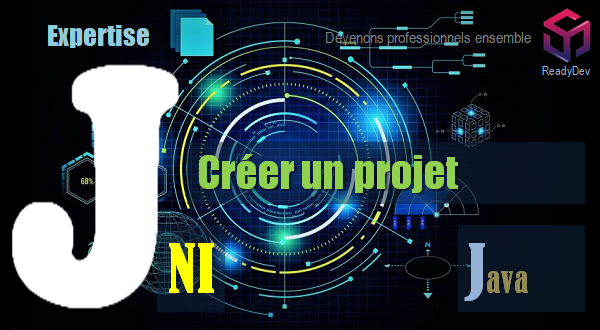
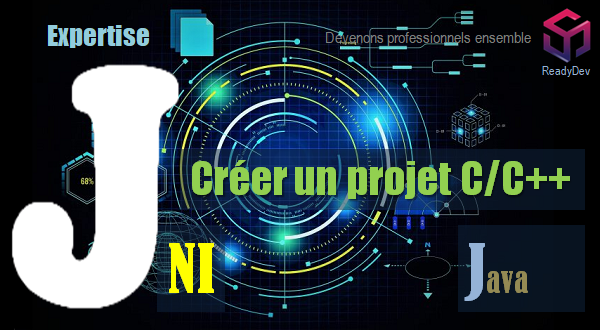
Initial Commit

Changed region(s): [[0.3, 0.4242, 0.99, 0.6364]]

diff --git a/Tutoriels/Java/JNI/Project/page/main.php b/Tutoriels/Java/JNI/Project/page/main.php
@@ -1,4 +1,4 @@
-<div class="Parallax GParallax1"><div class="Img Binary"><div class="Caption"><a href="#"><div class="Text">Créer un projet JNI en Java</div></a></div></div><div class="Body2 Orange">Le but de ce tutoriel est de vous apprendre à créer un projet JNI en <b>Java</b>.<br>Version Pro &amp; Industrielle. Produit par <b>Gérard KESSE</b>.<br><br><div class="Content0 GSummary1"><div class="Body0" id="Loader_1529412976174"><div class="Row26">Summary 1</div></div><script>loadSummary1("Loader_1529412976174");</script></div></div></div><br><div class="Content2 GTitle1"><div class="MainBlock2"><div class="Content"><h1 class="Title2 Center" id="Introduction"><a class="Link3" href="#">Introduction</a></h1><div class="Body3"><b>Java </b>est un langage de programmation orienté objet permettant de créer des logiciels vers une représentation binaire qui peut être exécutée dans une machine virtuelle Java (JVM) en faisant abstraction du système d'exploitation.<br><br><div class="Img3 GImage"><img src="/Tutoriels/Java/img/b_jni_project.png" alt="/Tutoriels/Java/img/b_jni_project.png"></div><br></div></div></div></div><br><div class="Content2 GTitle1"><div class="MainBlock2"><div class="Content"><h1 class="Title2 Center" id="Créer un projet JNI en Java"><a class="Link3" href="#">Créer un projet JNI en Java</a></h1><div class="Body3"><br><div class="Content0 GSummary2"><div class="Body0" id="Loader_1599250744051"><div class="Row26">Summary 2</div></div><script>loadSummary2("Loader_1599250744051");</script></div><br><h2 class="Title7 GTitle2" id="Créer un projet JNI en Java-Introduction"><a class="Link9" href="#Créer un projet JNI en Java">Introduction</a></h2><br>Dans l'exemple qui suit, nous essayons de créer un projet JNI en Java.<br><br><h2 class="Title7 GTitle2" id="Créer un projet JNI en Java-Programme principal"><a class="Link9" href="#Créer un projet JNI en Java">Programme principal</a></h2><br><h3 class="Title8 GTitle3">GMain.java</h3><br><div class="GCode1"><pre class="Code2"><xmp class="AceCode" data-mode="java">//===============================================
+<div class="Parallax GParallax1"><div class="Img Binary"><div class="Caption"><a href="#"><div class="Text">Créer un projet C/C++ JNI en Java</div></a></div></div><div class="Body2 Orange">Le but de ce tutoriel est de vous apprendre à créer un projet C/C++ JNI en <b>Java</b>.<br>Version Pro &amp; Industrielle. Produit par <b>Gérard KESSE</b>.<br><br><div class="Content0 GSummary1"><div class="Body0" id="Loader_1529412976174"><div class="Row26">Summary 1</div></div><script>loadSummary1("Loader_1529412976174");</script></div></div></div><br><div class="Content2 GTitle1"><div class="MainBlock2"><div class="Content"><h1 class="Title2 Center" id="Introduction"><a class="Link3" href="#">Introduction</a></h1><div class="Body3"><b>Java </b>est un langage de programmation orienté objet permettant de créer des logiciels vers une représentation binaire qui peut être exécutée dans une machine virtuelle Java (JVM) en faisant abstraction du système d'exploitation.<br><br><div class="Img3 GImage"><img src="/Tutoriels/Java/img/b_jni_project.png" alt="/Tutoriels/Java/img/b_jni_project.png"></div><br></div></div></div></div><br><div class="Content2 GTitle1"><div class="MainBlock2"><div class="Content"><h1 class="Title2 Center" id="Créer un projet C/C++ JNI en Java"><a class="Link3" href="#">Créer un projet C/C++ JNI en Java</a></h1><div class="Body3"><br><div class="Content0 GSummary2"><div class="Body0" id="Loader_1599250744051"><div class="Row26">Summary 2</div></div><script>loadSummary2("Loader_1599250744051");</script></div><br><h2 class="Title7 GTitle2" id="Créer un projet C/C++ JNI en Java-Introduction"><a class="Link9" href="#Créer un projet C/C++ JNI en Java">Introduction</a></h2><br>Dans l'exemple qui suit, nous essayons de créer un projet C/C++ JNI en Java.<br><br><h2 class="Title7 GTitle2" id="Créer un projet C/C++ JNI en Java-Programme principal"><a class="Link9" href="#Créer un projet C/C++ JNI en Java">Programme principal</a></h2><br><h3 class="Title8 GTitle3">GMain.java</h3><br><div class="GCode1"><pre class="Code2"><xmp class="AceCode" data-mode="java">//===============================================
 package com.pkg.readyapp;
 //===============================================
 public class GMain {
@@ -14,7 +14,7 @@ public class GMain {
     }
     //===============================================
 }
-//===============================================</xmp></pre></div><br><h2 class="Title7 GTitle2" id="Créer un projet JNI en Java-Fichier header"><a class="Link9" href="#Créer un projet JNI en Java">Fichier header</a></h2><br><h3 class="Title8 GTitle3">com_pkg_readyapp_GMain.h</h3><br><div class="GCode1"><pre class="Code2"><xmp class="AceCode" data-mode="c_cpp">/* DO NOT EDIT THIS FILE - it is machine generated */
+//===============================================</xmp></pre></div><br><h2 class="Title7 GTitle2" id="Créer un projet C/C++ JNI en Java-Fichier header"><a class="Link9" href="#Créer un projet C/C++ JNI en Java">Fichier header</a></h2><br><h3 class="Title8 GTitle3">com_pkg_readyapp_GMain.h</h3><br><div class="GCode1"><pre class="Code2"><xmp class="AceCode" data-mode="c_cpp">/* DO NOT EDIT THIS FILE - it is machine generated */
 #include &lt;jni.h&gt;
 /* Header for class com_pkg_readyapp_GMain */
 
@@ -34,7 +34,7 @@ JNIEXPORT void JNICALL Java_com_pkg_readyapp_GMain_run
 #ifdef __cplusplus
 }
 #endif
-#endif</xmp></pre></div><br><h2 class="Title7 GTitle2" id="Créer un projet JNI en Java-Fichier source"><a class="Link9" href="#Créer un projet JNI en Java">Fichier source</a></h2><br><h3 class="Title8 GTitle3">GMain.cpp</h3><br><div class="GCode1"><pre class="Code2"><xmp class="AceCode" data-mode="c_cpp">//===============================================
+#endif</xmp></pre></div><br><h2 class="Title7 GTitle2" id="Créer un projet C/C++ JNI en Java-Fichier source"><a class="Link9" href="#Créer un projet C/C++ JNI en Java">Fichier source</a></h2><br><h3 class="Title8 GTitle3">GMain.cpp</h3><br><div class="GCode1"><pre class="Code2"><xmp class="AceCode" data-mode="c_cpp">//===============================================
 #include "com_pkg_readyapp_GMain.h" 
 //===============================================
 #include &lt;jni.h&gt; 
@@ -45,29 +45,30 @@ Java_com_pkg_readyapp_GMain_run(JNIEnv *env, jobject obj) {
     printf("Bonjour tout le monde\n");
     return;
 }
-//===============================================</xmp></pre></div><br><h2 class="Title7 GTitle2" id="Créer un projet JNI en Java-Fichier Manifest"><a class="Link9" href="#Créer un projet JNI en Java">Fichier Manifest</a></h2><br><h3 class="Title8 GTitle3">MANIFEST</h3><br><div class="GCode1"><pre class="Code2"><xmp class="AceCode" data-mode="json">Manifest-Version: 1.0
+//===============================================</xmp></pre></div><br><h2 class="Title7 GTitle2" id="Créer un projet C/C++ JNI en Java-Fichier Manifest"><a class="Link9" href="#Créer un projet C/C++ JNI en Java">Fichier Manifest</a></h2><br><h3 class="Title8 GTitle3">MANIFEST</h3><br><div class="GCode1"><pre class="Code2"><xmp class="AceCode" data-mode="json">Manifest-Version: 1.0
 Created-By: Gerard KESSE
-Main-Class: com.pkg.readyapp.GMain</xmp></pre></div><br><h2 class="Title7 GTitle2" id="Créer un projet JNI en Java-Fichier Makefile"><a class="Link9" href="#Créer un projet JNI en Java">Fichier Makefile</a></h2><br><h3 class="Title8 GTitle3">Makefile.jdk.mak</h3><br><div class="GCode1"><pre class="Code2"><xmp class="AceCode" data-mode="makefile">GSRC = ..\code\readyapp\src
+Main-Class: com.pkg.readyapp.GMain</xmp></pre></div><br><h2 class="Title7 GTitle2" id="Créer un projet C/C++ JNI en Java-Fichier Makefile"><a class="Link9" href="#Créer un projet C/C++ JNI en Java">Fichier Makefile</a></h2><br><h3 class="Title8 GTitle3">Makefile.jdk.mak</h3><br><div class="GCode1"><pre class="Code2"><xmp class="AceCode" data-mode="makefile">GSRC = ../code/readyapp/src
 GBIN = bin
 GBUILD = build
 GGEN = gen
-GGEN_CLASS = $(GGEN)\class
-GGEN_CPP_SRC = $(GGEN)\cpp\src
-GGEN_CPP_INC = $(GGEN)\cpp\include
-GGEN_LIB_PATH = $(GGEN)\lib
-GGEN_LIB_NAME = $(GGEN_LIB_PATH)\rdcpp.dll
-GGEN_BUILD = $(GGEN)\build
-GGEN_DEF = $(GGEN)\gen.def
+GGEN_CLASS = $(GGEN)/class
+GGEN_CPP_SRC = $(GGEN)/cpp/src
+GGEN_CPP_INC = $(GGEN)/cpp/include
+GGEN_CPP_INC_GEN = $(GGEN)/cpp/include/gen
+GGEN_LIB_PATH = $(GGEN)/lib
+GGEN_LIB_NAME = $(GGEN_LIB_PATH)/rdcpp.dll
+GGEN_BUILD = $(GGEN)/build
 GTARGET = $(GMAIN_JAR)
 
-GMAIN_JAVA = $(GSRC)\com\pkg\readyapp\GMain.java
+GMAIN_JAVA = $(GSRC)/com/pkg/readyapp/GMain.java
 GMAIN_CLASS = com.pkg.readyapp.GMain
 GMANIFEST = MANIFEST
 
 GINCS =\
     -I$(GGEN_CPP_INC) \
-    -I"C:\Program Files\Java\jdk-11.0.1\include" \
-    -I"C:\Program Files\Java\jdk-11.0.1\include\win32" \
+    -I$(GGEN_CPP_INC_GEN) \
+    -I"C:/Program Files/Java/jdk-11.0.1/include" \
+    -I"C:/Program Files/Java/jdk-11.0.1/include/win32" \
 
 GOBJS_GEN =\
     $(patsubst $(GGEN_CPP_SRC)/%.cpp, $(GGEN_BUILD)/%.o, $(wildcard $(GGEN_CPP_SRC)/*.cpp)) \
@@ -75,41 +76,47 @@ GOBJS_GEN =\
 GCFLAGS =\
     -std=gnu++11 \
     
-all: cpp clean compile jar run
-cpp: cpp_clean cpp_gen cpp_compile
+all: cpp compile jar run
+cpp: cpp_gen cpp_compile
 
 cpp_gen:
-	@javac -h $(GGEN_CPP_INC) -d $(GGEN_CLASS) $(GMAIN_JAVA)
+	javac -h $(GGEN_CPP_INC_GEN) -d $(GGEN_CLASS) $(GMAIN_JAVA)
 cpp_compile: $(GOBJS_GEN)
-	@if not exist $(GGEN_LIB_PATH) ( mkdir $(GGEN_LIB_PATH) )
-	@g++ -shared -o $(GGEN_LIB_NAME) $(GOBJS_GEN) $(GGEN_DEF)
+	@if ! [ -d $(GGEN_LIB_PATH) ] ; then mkdir -p $(GGEN_LIB_PATH) ; fi
+	x86_64-w64-mingw32-g++ -shared -o $(GGEN_LIB_NAME) $(GOBJS_GEN)
 $(GGEN_BUILD)/%.o: $(GGEN_CPP_SRC)/%.cpp
-	@if not exist $(GGEN_BUILD) ( mkdir $(GGEN_BUILD) )
-	@g++ $(GCFLAGS) -c $&lt; -o $@ $(GINCS)
+	@if ! [ -d $(GGEN_BUILD) ] ; then mkdir -p $(GGEN_BUILD) ; fi
+	x86_64-w64-mingw32-g++ $(GCFLAGS) -c $&lt; -o $@ $(GINCS)
 cpp_clean: 
-	@if not exist $(GGEN) ( mkdir $(GGEN) )
-	@del /s /q $(GGEN)\*.h $(GGEN)\*.o $(GGEN)\*.dll 
+	@if ! [ -d $(GGEN) ] ; then mkdir -p $(GGEN) ; fi
+	@if ! [ -d $(GGEN_CPP_INC_GEN) ] ; then mkdir -p $(GGEN_CPP_INC_GEN) ; fi
+	find $(GGEN_CPP_INC_GEN) -iname *.h -delete
+	find $(GGEN) -iname *.o -delete
+	find $(GGEN) -iname *.dll -delete
 compile:
-	@if not exist $(GBUILD) ( mkdir $(GBUILD) )
-	@javac $(GMAIN_JAVA) -d $(GBUILD) -sourcepath $(GSRC)
+	@if ! [ -d $(GBUILD) ] ; then mkdir -p $(GGEN) ; fi
+	javac $(GMAIN_JAVA) -d $(GBUILD) -sourcepath $(GSRC)
 jar: 
-	@if not exist $(GBIN) ( mkdir $(GBIN) )
-	@jar cfm $(GTARGET) $(GMANIFEST) -C $(GBUILD) .
+	@if ! [ -d $(GBIN) ] ; then mkdir -p $(GBIN) ; fi
+	jar cfm $(GTARGET) $(GMANIFEST) -C $(GBUILD) .
 run: 
-	@java $(GMAIN_CLASS) $(argv)
+	java $(GMAIN_CLASS) $(argv)
 clean: 
-	@if not exist $(GBUILD) ( mkdir $(GBUILD) )
-	@if not exist $(GBIN) ( mkdir $(GBIN) )
-	@del /s /q $(GBUILD)\*.class $(GBIN)\*.jar</xmp></pre></div><br><h2 class="Title7 GTitle2" id="Créer un projet JNI en Java-Variables d'environnement"><a class="Link9" href="#Créer un projet JNI en Java">Variables d'environnement</a></h2><br><h3 class="Title8 GTitle3">env.bat</h3><br><div class="GCode1"><pre class="Code2"><xmp class="AceCode" data-mode="batchfile">@echo off
+	@if ! [ -d $(GBUILD) ] ; then mkdir -p $(GGEN) ; fi
+	@if ! [ -d $(GBIN) ] ; then mkdir -p $(GBIN) ; fi
+	find $(GBUILD) -iname *.class -delete
+	find $(GBIN) -iname *.jar -delete</xmp></pre></div><br><h2 class="Title7 GTitle2" id="Créer un projet C/C++ JNI en Java-Variables d'environnement"><a class="Link9" href="#Créer un projet C/C++ JNI en Java">Variables d'environnement</a></h2><br><h3 class="Title8 GTitle3">env.bat</h3><br><div class="GCode1"><pre class="Code2"><xmp class="AceCode" data-mode="batchfile">@echo off
 ::===============================================
-set "PATH=C:\TDM-GCC-64\bin;%PATH%"
-set "PATH=C:\Program Files\Java\jdk-11.0.1\bin;%PATH%"
-set "PATH=C:\Users\Admin\Downloads\Programs\ReadyJava\jni\win\gen\lib;%PATH%"
+set "PATH=C:/cygwin64/bin;%PATH%"
+set "PATH=C:/cygwin64/usr/local/bin;%PATH%"
+set "PATH=C:/cygwin64/usr/x86_64-w64-mingw32/sys-root/mingw/bin;%PATH%"
+set "PATH=C:/Program Files/Java/jdk-11.0.1/bin;%PATH%"
+set "PATH=C:/Users/Admin/Downloads/Programs/ReadyJava/jni/cyg/gen/lib;%PATH%"
 ::===============================================
-set "GPROJECT_ROOT=C:\Users\Admin\Downloads\Programs"
-set "GPROJECT_PATH=%GPROJECT_ROOT%\ReadyJava"
+set "GPROJECT_ROOT=C:/Users/Admin/Downloads/Programs"
+set "GPROJECT_PATH=%GPROJECT_ROOT%/ReadyJava"
 ::===============================================
-set "GMAIN_JAR=%GPROJECT_PATH%\jni\win\bin\rdjava.jar"
+set "GMAIN_JAR=%GPROJECT_PATH%/jni/cyg/bin/rdjava.jar"
 ::===============================================
 set "CLASSPATH=%GMAIN_JAR%"
 ::===============================================</xmp></pre></div><br><h3 class="Title8 GTitle3">make_j.bat</h3><br><div class="GCode1"><pre class="Code2"><xmp class="AceCode" data-mode="batchfile">@echo off
@@ -121,14 +128,25 @@ set "lArgs=!lArgs:*%1 =!"
 endlocal && ( set "args=%lArgs%" )
 ::===============================================
 mingw32-make -f Makefile.jdk.mak %1 argv="%args%"
-::===============================================</xmp></pre></div><br><h2 class="Title7 GTitle2" id="Créer un projet JNI en Java-Compilation automatique"><a class="Link9" href="#Créer un projet JNI en Java">Compilation automatique</a></h2><br><h3 class="Title8 GTitle3">Terminal</h3><br><div class="GCode1"><pre class="Code2"><xmp class="AceCode" data-mode="batchfile">make_j all</xmp></pre></div><br><h2 class="Title7 GTitle2" id="Créer un projet JNI en Java-Compilation manuelle"><a class="Link9" href="#Créer un projet JNI en Java">Compilation manuelle</a></h2><br><h3 class="Title8 GTitle3">Terminal</h3><br><div class="GCode1"><pre class="Code2"><xmp class="AceCode" data-mode="batchfile">del \s \q gen\*.h gen\*.o gen\*.dll
-javac -h gen\cpp\include -d gen\class PROJECT_SRC\com\pkg\readyapp\GMain.java
-g++ -std=gnu++11  -c gen\cpp\src\GMain.cpp -o gen\build\GMain.o ^
--Igen\cpp\include -I"C:\Program Files\Java\jdk-11.0.1\include" ^
--I"C:\Program Files\Java\jdk-11.0.1\include\win32"
-g++ -shared -o gen\lib\rdcpp.dll  gen\build\GMain.o
+::===============================================</xmp></pre></div><br><h2 class="Title7 GTitle2" id="Créer un projet C/C++ JNI en Java-Compilation automatique"><a class="Link9" href="#Créer un projet C/C++ JNI en Java">Compilation automatique</a></h2><br><h3 class="Title8 GTitle3">Terminal</h3><br><div class="GCode1"><pre class="Code2"><xmp class="AceCode" data-mode="batchfile">make_j all</xmp></pre></div><br><h2 class="Title7 GTitle2" id="Créer un projet C/C++ JNI en Java-Compilation manuelle"><a class="Link9" href="#Créer un projet C/C++ JNI en Java">Compilation manuelle</a></h2><br><h3 class="Title8 GTitle3">Terminal</h3><br><div class="GCode1"><pre class="Code2"><xmp class="AceCode" data-mode="batchfile">find gen/cpp/include/gen -iname *.h -delete
+find gen -iname *.o -delete
+find gen -iname *.dll -delete
 
-del \s \q build\*.class bin\*.jar
-javac PROJECT_SRC\com\pkg\readyapp\GMain.java -d build -sourcepath PROJECT_SRC
-jar cfm PROJECT_BUILD\bin\rdjava.jar MANIFEST -C build .
-java com.pkg.readyapp.GMain</xmp></pre></div><br><h2 class="Title7 GTitle2" id="Créer un projet JNI en Java-Résultat"><a class="Link9" href="#Créer un projet JNI en Java">Résultat</a></h2><br><div class="Img3 GImage"><img src="/Tutoriels/Java/img/i_jni_project.png" alt="/Tutoriels/Java/img/i_jni_project.png"></div><br></div></div></div></div><br><div class="Content2 GTitle1"><div class="MainBlock2"><div class="Content"><h1 class="Title2 Center" id="Voir Aussi"><a class="Link3" href="#">Voir Aussi</a></h1><div class="Body3">Dans cette même catégorie, vous pouvez consulter aussi :<br><br><span class="GColor1" style="color:lime;">Java Native Interface</span><br><br><div class="Content0 GList1"><div class="Body0" id="Loader_1608610487380"><div class="Row26">List 1 &gt; Java &gt; jni</div></div><script>loadList1("Loader_1608610487380","Java","jni");</script></div><br></div></div></div></div><br>
+javac -h gen/cpp/include/gen -d gen/class PROJRCT_SRC/com/pkg/readyapp/GMain.java
+
+x86_64-w64-mingw32-g++ -std=gnu++11  -c gen/cpp/src/GMain.cpp -o gen/build/GMain.o ^
+-Igen/cpp/include -Igen/cpp/include/gen ^
+-I"C:/Program Files/Java/jdk-11.0.1/include" ^
+-I"C:/Program Files/Java/jdk-11.0.1/include/win32"
+
+x86_64-w64-mingw32-g++ -shared -o gen/lib/rdcpp.dll  gen/build/GMain.o  
+
+find build -iname *.class -delete
+find bin -iname *.jar -delete
+
+javac ../code/readyapp/src/com/pkg/readyapp/GMain.java ^
+-d build -sourcepath ../code/readyapp/src
+
+jar cfm bin/rdjava.jar MANIFEST -C build .
+
+java com.pkg.readyapp.GMain</xmp></pre></div><br><h2 class="Title7 GTitle2" id="Créer un projet C/C++ JNI en Java-Résultat"><a class="Link9" href="#Créer un projet C/C++ JNI en Java">Résultat</a></h2><br><div class="Img3 GImage"><img src="/Tutoriels/Java/img/i_jni_project.png" alt="/Tutoriels/Java/img/i_jni_project.png"></div><br></div></div></div></div><br><div class="Content2 GTitle1"><div class="MainBlock2"><div class="Content"><h1 class="Title2 Center" id="Voir Aussi"><a class="Link3" href="#">Voir Aussi</a></h1><div class="Body3">Dans cette même catégorie, vous pouvez consulter aussi :<br><br><span class="GColor1" style="color:lime;">Java Native Interface</span><br><br><div class="Content0 GList1"><div class="Body0" id="Loader_1608610487380"><div class="Row26">List 1 &gt; Java &gt; jni</div></div><script>loadList1("Loader_1608610487380","Java","jni");</script></div><br></div></div></div></div><br>

diff --git a/Tutoriels/Java/JNI/Project/index.php b/Tutoriels/Java/JNI/Project/index.php
@@ -3,7 +3,7 @@
     
     $m_data = GJson::Instance()->getData("data/json/Java_JNI_Project.json");
     
-    GConfig::Instance()->setData("title", "Java - JNI - Créer un projet");
+    GConfig::Instance()->setData("title", "Java - JNI - Créer un projet C/C++");
     GConfig::Instance()->setData("menu", "Tutoriels");
     GConfig::Instance()->setData("view", "Java_JNI_Project");
     GConfig::Instance()->setData("link", $m_data["links"]);
